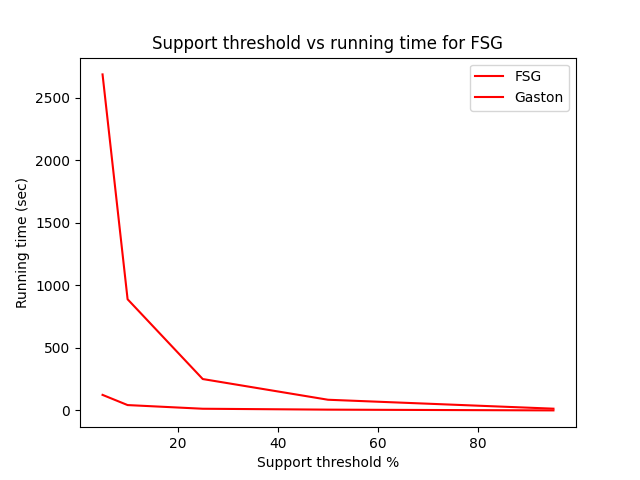
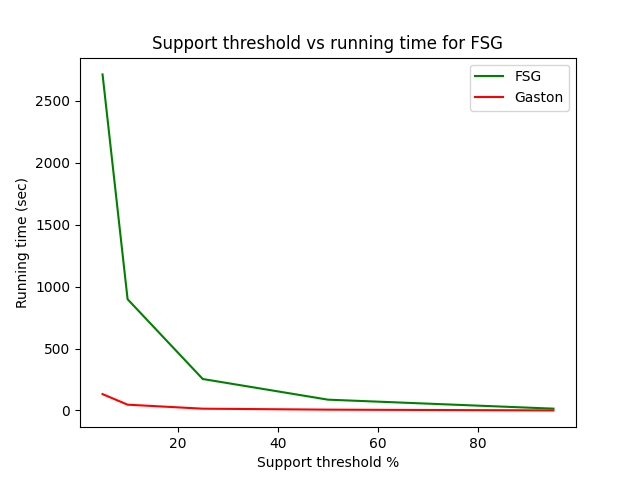
plot color updated

diff --git a/plot.py b/plot.py
@@ -52,7 +52,7 @@ time_gaston=[]
 for i in range(len(threshold)):
         time_gaston.append(end_time_gaston[i] - start_time_gaston[i])
 
-plt.plot(threshold,time_fsg,'-r',label = 'FSG')
+plt.plot(threshold,time_fsg,'-g',label = 'FSG')
 plt.plot(threshold,time_gaston,'-r',label = 'Gaston')
 
 plt.xlabel('Support threshold %')
